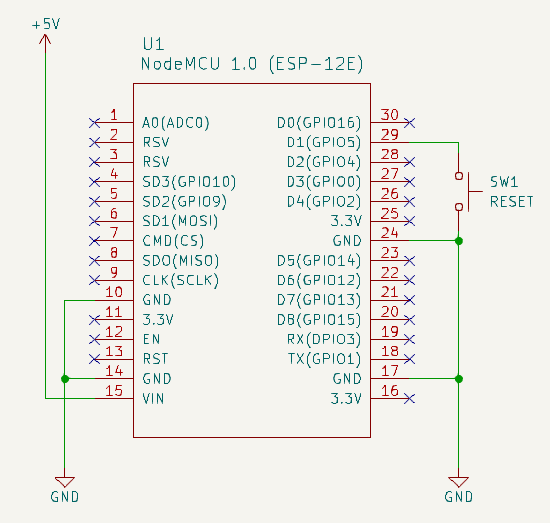
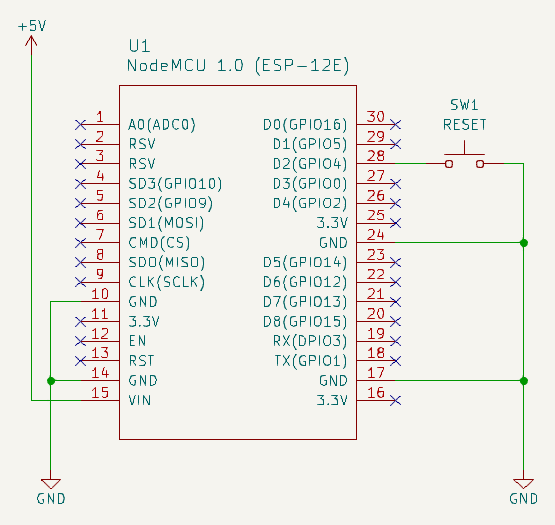
add esp32 support

Changed region(s): [[0.2164, 0.0612, 0.9582, 0.979], [0.0309, 0.0306, 0.4327, 0.979], [0.8036, 0.8872, 0.8655, 0.979]]

diff --git a/firmware/src/espWebCfg.h b/firmware/src/espWebCfg.h
@@ -9,12 +9,12 @@
 #ifndef ESPWEBCFG_H
 #define ESPWEBCFG_H
 
-#if defined(ESP8266)
+#ifdef ESP8266
 #include <ESP8266WebServer.h>
 #include <ESP8266WiFi.h>
 #elif defined(ESP32)
-#include <WebServer.h>
 #include <WiFi.h>
+#include <WebServer.h>
 #endif
 
 #include <Arduino.h>
@@ -36,7 +36,11 @@ extern bool wifiMode;
 extern String wifiSsid;
 extern String wifiPassword;
 
+#ifdef ESP8266
 extern ESP8266WebServer server;
+#elif defined(ESP32)
+extern WebServer server;
+#endif
 
 void wifiConnect();     // Conectar a la red WiFi
 void wifiAP();          // Funcionar en modo AP

diff --git a/firmware/src/espLoopFunction.cpp b/firmware/src/espLoopFunction.cpp
@@ -9,7 +9,7 @@
 #include "espWebCfg.h"
 
 // Constantes
-const uint8_t RESET = 5;            // Pin de reset de credenciales, GPIO5 = D1
+const uint8_t RESET = 4;            // Pin de reset de credenciales, GPIO4 = G4 = D2
 const uint16_t BLINK_TIME = 3000;   // Tiempo entre destellos LED "Status"
 const uint8_t FLASH_LED = 100;      // Tiempo de destello LED "Status"
 

diff --git a/firmware/src/espWebServer.cpp b/firmware/src/espWebServer.cpp
@@ -9,7 +9,12 @@
 #include "espWebCfg.h"
 
 bool wifiMode = false; // Modo de funcionamiento
+
+#ifdef ESP8266
 ESP8266WebServer server(80);
+#elif defined(ESP32)
+WebServer server(80);
+#endif
 
 // Funcionar en modo AP
 void wifiAP() {
